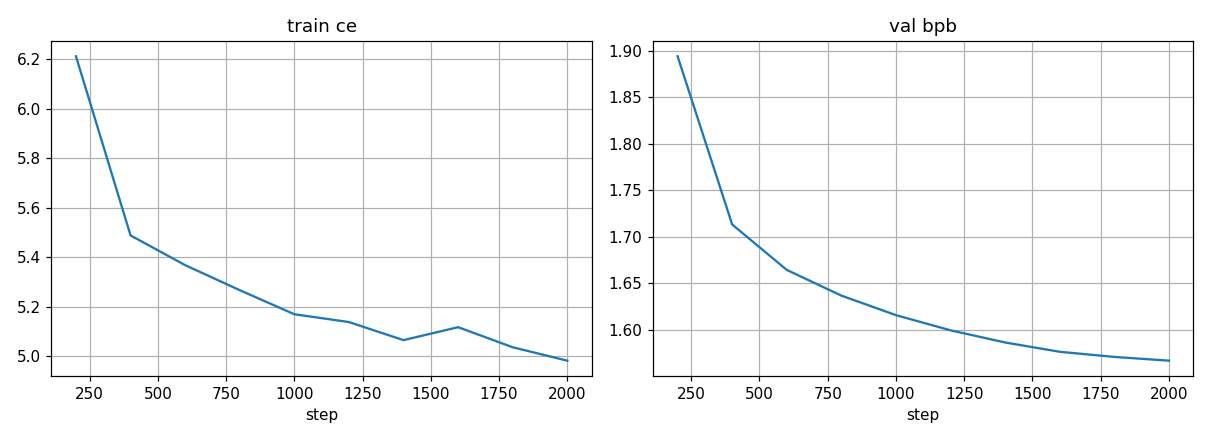
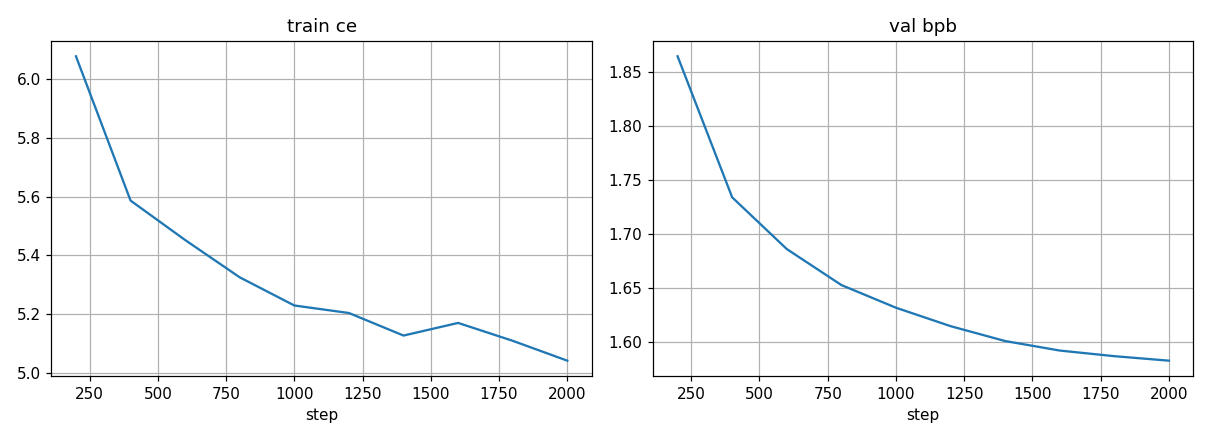
CORRECTION: warm E1 final = 1.58240 (not 1.56668 - earlier partial-file read)
Complete step-2000 metrics + run.log agree on 1.58240. Warm still beats cold
(1.62447) by -0.0421 (was mis-stated -0.0578); conclusion unchanged. Re-committed
complete exp_n_0008 files + regenerated trajectory plot.

diff --git a/experiments/hyperplane_ffn/mdn/NIGHT_SESSION_JOURNAL.md b/experiments/hyperplane_ffn/mdn/NIGHT_SESSION_JOURNAL.md
@@ -164,11 +164,11 @@ keeps the PCA *directions* while starting near-unigram; documented as `warm_x_sc
 | init | final val_bpb (2k) | vs cold |
 |------|--:|--:|
 | cold (exp_n_0006) | 1.62447 | — |
-| **warm PCA (exp_n_0008)** | **1.56668** | **−0.0578** |
+| **warm PCA (exp_n_0008)** | **1.58240** | **−0.0421** |
 
-Warm beats cold by 0.058 (still descending at step 2000). Per spec §4.5, a cold–warm gap of this size
+Warm beats cold by 0.042 (still descending at step 2000). Per spec §4.5, a cold–warm gap of this size
 says cold's weak number is substantially an **OPTIMIZATION** problem — the PCA-warm start finds a better
-basin — not a hard representational failure. BUT warm still sits +0.336 (+27% rel) above the baseline
+basin — not a hard representational failure. BUT warm still sits +0.351 (+29% rel) above the baseline
 1.231, so it's not just optimization either: the frozen backbone (optimized for a DENSE head) plus 2000
 undertrained steps both cap it. Verdict: the MDN head is representationally alive and optimization-sensitive;
 a real gate verdict needs a longer E1 and/or joint E2 (unfreeze the backbone), which was out of tonight's
@@ -181,7 +181,7 @@ At 2000 frozen-backbone steps (batch 8192, baseline = exp070 dense head 1.23103)
 |-----|------|--:|--:|------|
 | exp_n_0006 | cold | 8 | 1.62447 | undertrained, still descending |
 | exp_n_0007 | cold | 1 | 1.60401 | ~ties/beats M=8; 5.6× cheaper |
-| exp_n_0008 | warm | 8 | 1.56668 | best; −0.058 vs cold |
+| exp_n_0008 | warm | 8 | 1.58240 | best; −0.042 vs cold |
 
 Three honest reads: (1) the head LEARNS from cold (2.03→1.62 monotone) and is 8.85× smaller than the dense
 head — representationally alive. (2) The M-mixture does NOT help at this budget (M=1 ≥ M=8) — contradicts
